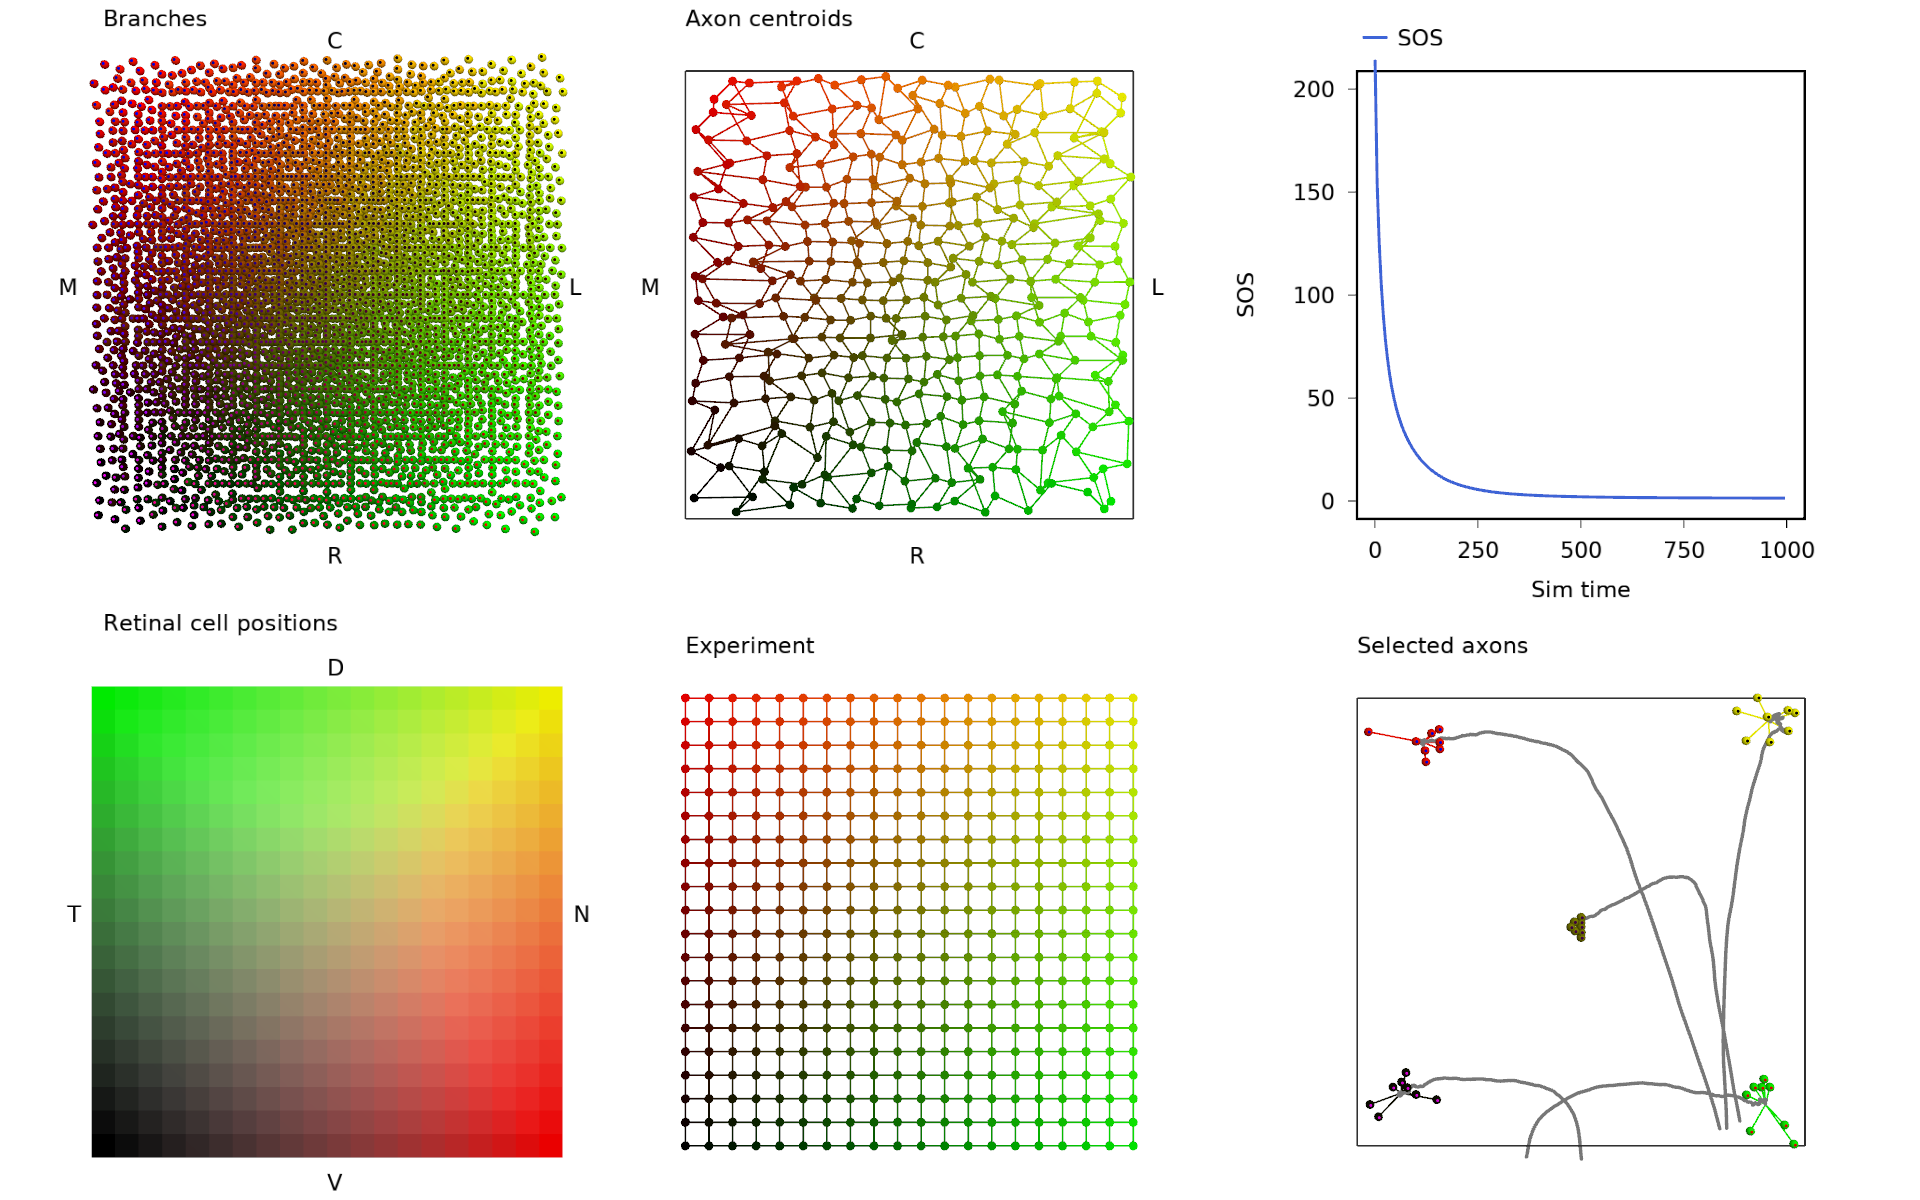
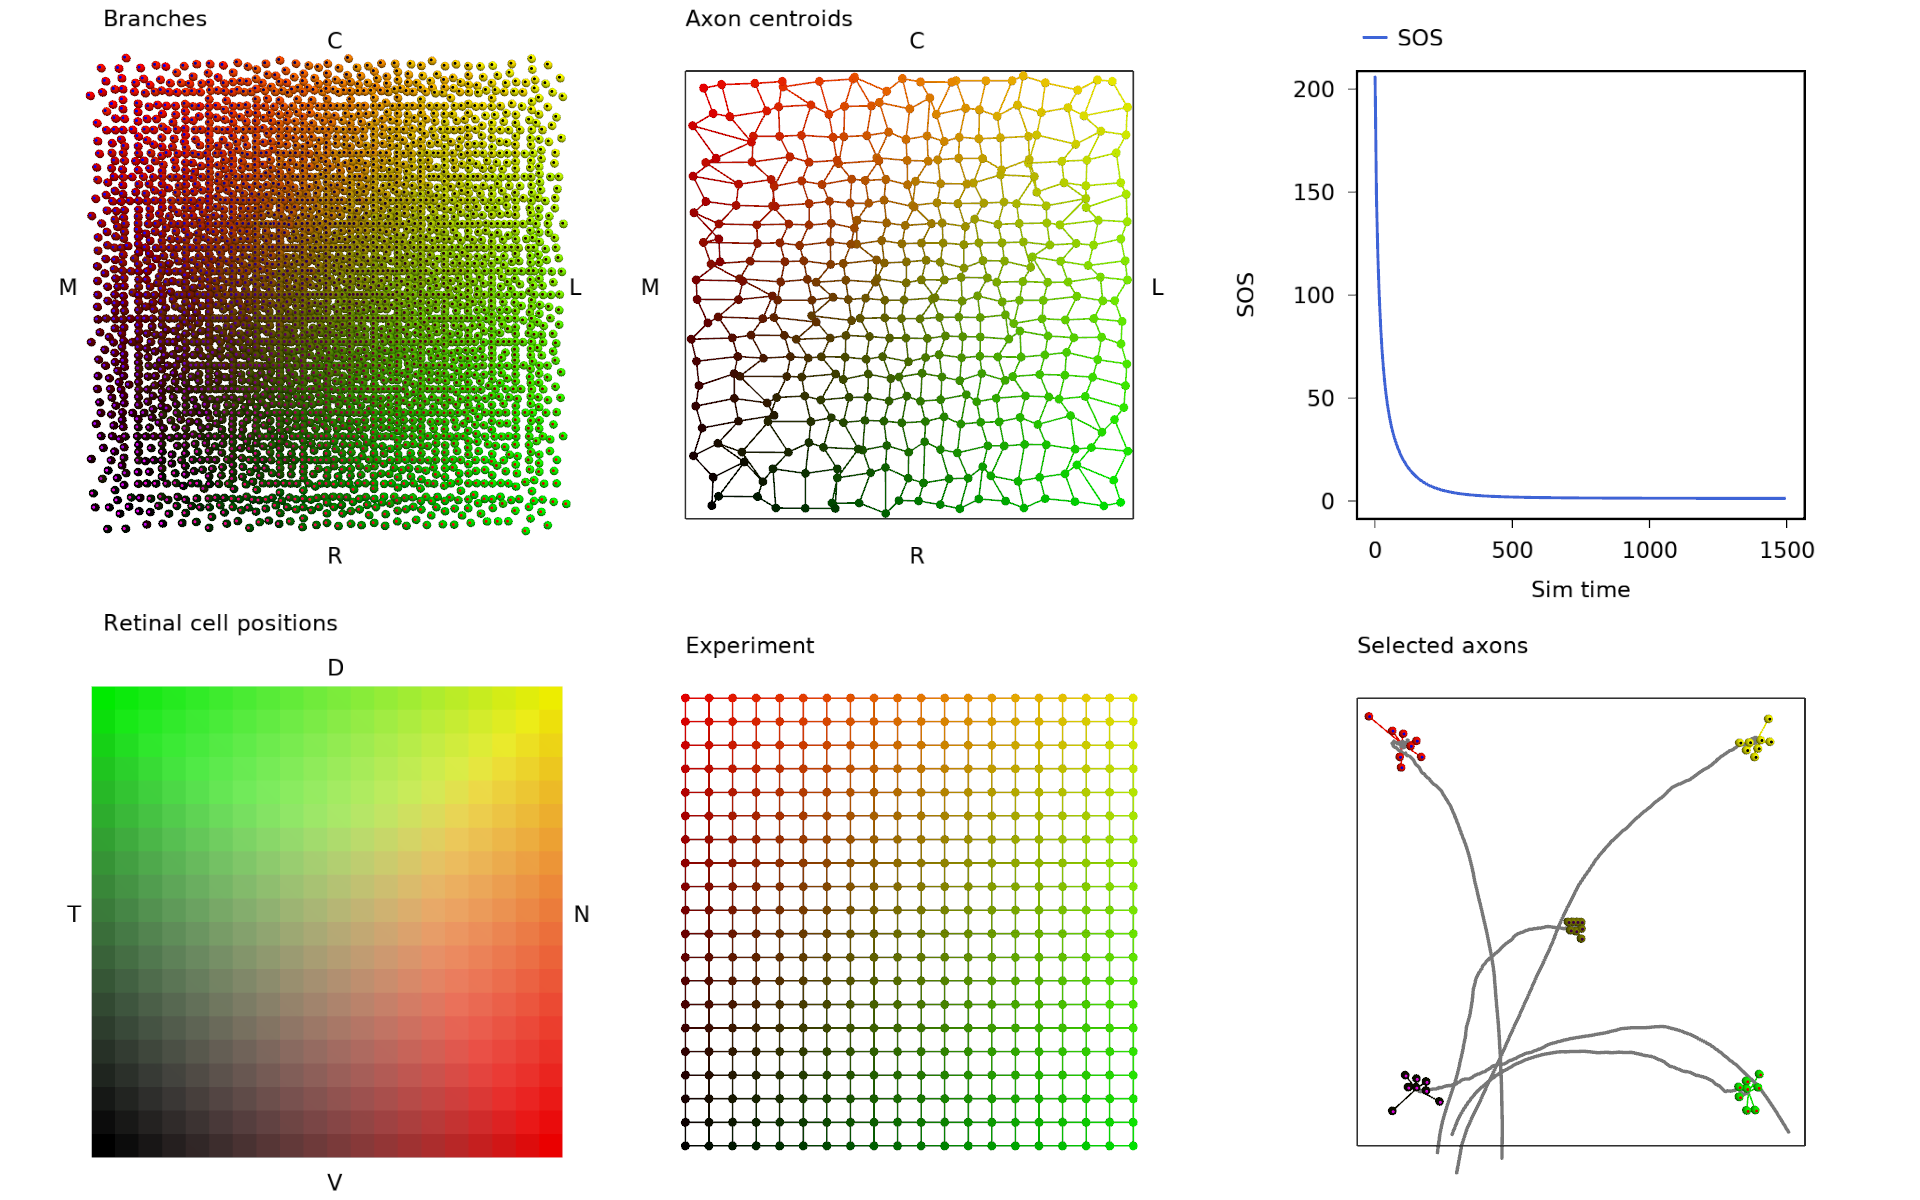
Looking at the genetic manipulation expts brown and reber

diff --git a/sim/agent/tissue.h b/sim/agent/tissue.h
@@ -4,6 +4,7 @@
 #include <morph/Vector.h>
 #include <morph/Random.h>
 #include <algorithm>
+#include <bitset>
 
 //! Some 2D brain tissue, arranged as a Cartesian grid of neurons of width w and height h.
 template<typename T>
@@ -122,11 +123,15 @@ struct guidingtissue : public tissue<T>
     morph::vVector<morph::Vector<T,N>> rcpt;
     //! Each receptor has a 2D gradient field, hence 2*N values here
     morph::vVector<morph::Vector<T,2*N>> rcpt_grad;
+    // Set fields true if the receptor expression has been manipulated
+    morph::vVector<std::bitset<N>> rcpt_manipulated;
 
     //! The tissue also has an expression of ligands to interact with receptors of other
     //! cells/agents
     morph::vVector<morph::Vector<T,N>> lgnd;
     morph::vVector<morph::Vector<T,2*N>> lgnd_grad;
+    // Set fields true if the ligand expression has been manipulated
+    morph::vVector<std::bitset<N>> lgnd_manipulated;
 
     //! Get the relevant axis position (or its inverse) for the position index pi and
     //! the given expression direction, so that an expression value can be computed.
@@ -185,6 +190,14 @@ struct guidingtissue : public tissue<T>
     {
         this->rcpt.resize (this->posn.size());
         this->lgnd.resize (this->posn.size());
+        this->rcpt_manipulated.resize (this->posn.size());
+        this->lgnd_manipulated.resize (this->posn.size());
+
+        // zero out the _manipulations vectors
+        for (size_t ri = 0; ri < this->posn.size(); ++ri) {
+            this->rcpt_manipulated[ri].reset();
+            this->lgnd_manipulated[ri].reset();
+        }
 
         // Ligands and receptors are set up as a function of their cell's position in the tissue.
         for (size_t ri = 0; ri < this->posn.size(); ++ri) {
@@ -653,14 +666,18 @@ struct guidingtissue : public tissue<T>
         if constexpr (random_knockin == true) {
             morph::RandUniform<T> rng(0,1);
             std::vector<T> rns = rng.get(this->rcpt.size());
-            size_t ri = 0;
-            for (auto& r : this->rcpt) {
-                if (rns[ri++] < affected) { r[idx] += amount; }
+            for (size_t ri = 0; ri < this->rcpt.size(); ++ri) {
+                if (rns[ri] < affected) {
+                    this->rcpt[ri][idx] += amount;
+                    this->rcpt_manipulated[ri][idx] = true;
+                }
             }
         } else {
-            size_t ri = 0;
-            for (auto& r : this->rcpt) {
-                if (ri++%2 == 0) { r[idx] += amount; }
+            for (size_t ri = 0; ri < this->rcpt.size(); ++ri) {
+                if (ri%2 == 0) {
+                    this->rcpt[ri][idx] += amount;
+                    this->rcpt_manipulated[ri][idx] = true;
+                }
             }
         }
         this->compute_gradients();

diff --git a/sim/agent/agent1.h b/sim/agent/agent1.h
@@ -536,14 +536,24 @@ struct Agent1
         }
 
         // Knockin will increase expression for half of all cells. There's code in tissue.h to make this randomised or regular
+        bool genetic_manipulation = false;
         T affected = T{0.5};
-        T amount = T{1};
+        T amount = this->conf->getDouble ("amount", 1);
         if (this->conf->getBool ("reber", false)) {
             if (manipulated) { throw std::runtime_error ("Code is only tested for one manipulation at a time!"); }
             // Knockin/knockdown receptor 0:
             this->ret->receptor_knockin (0, affected, amount);
             this->ret->receptor_knockdown (0, amount);
             manipulated = true;
+            genetic_manipulation = true;
+        }
+
+        if (this->conf->getBool ("brown", false)) {
+            if (manipulated) { throw std::runtime_error ("Code is only tested for one manipulation at a time!"); }
+            // Knockin receptor 0 in half of RGCs (but with no knockdown):
+            this->ret->receptor_knockin (0, affected, amount);
+            manipulated = true;
+            genetic_manipulation = true;
         }
 
         std::cout << "Retina has " << this->ret->num() << " cells\n";
@@ -593,6 +603,9 @@ struct Agent1
         bool totally_random = this->mconf->getBool ("totally_random_init", true);
         std::string branch_model = this->mconf->getString ("branch_model", "james_agent");
 
+        std::array<float, 3> red = { 1.0f, 0.0f, 0.0f };
+        std::array<float, 3> blue = { 0.0f, 0.0f, 1.0f };
+
         // A loop to set up each branch object in pending_branches.
         for (unsigned int i = 0; i < this->pending_branches.size(); ++i) {
             // Set the branch's termination zone
@@ -633,6 +646,12 @@ struct Agent1
             }
 
             this->ax_centroids.p[ri] += initpos / static_cast<T>(bpa);
+
+            if (genetic_manipulation == true) { // genetic manipulation of retinal receptor 0
+                // Set colour red or blue depending on if receptor 0 in the retina was manipulated or not.
+
+                this->ax_centroids.clr[ri] = this->ret->rcpt_manipulated[ri][0] == true ? red : blue;
+            }
 
             // "experiment suggests": The target for axon centroids is defined by their
             // origin location on the retina. However, their target on the tectum is the
@@ -738,6 +757,11 @@ struct Agent1
         }
 
         if (this->conf->getBool ("reber", false)) {
+            this->ax_centroids.targ_reber();
+        }
+
+        // Don't have a brown-specific target yet
+        if (this->conf->getBool ("brown", false)) {
             this->ax_centroids.targ_reber();
         }
 

diff --git a/paper/paper.tex b/paper/paper.tex
@@ -571,12 +571,14 @@ derived from a normal distribution of mean 0 and standard deviation 0.1.
 
 \subsection*{Normal development}
 
-To enable a simulation it is necessary to make the assumptions (in addition to
-those implicit in the description of the model above) that i) All
-receptor-ligand signalled interactions are repulsive, as for EphA-ephrinA
+To enable a simulation it is necessary to make assumptions about the nature of
+the receptor-ligand signalled interactions (i.e. whether they are attractive
+or repulsive) and about the pattern of ligand expression on the tectal
+surface. We assume that i) All receptor-ligand signalled interactions are
+repulsive, as for EphA-ephrinA
 coupling \citep{drescher_vitro_1995,nakamoto_topographically_1996}; and ii)
 all tectal ligand expressions vary exponentially along a given axis, following
-Eq.\,\ref{e:tecexp}. The result of running this system are presented in
+Eq.\,\ref{e:tecexp}. The results of running such a system are presented in
 Fig.\,\ref{f:wt}.
 %
 Fig.\,\ref{f:wt}Ai shows a dual-colour map of retinal ganglion cell positions
@@ -611,6 +613,8 @@ This result shows that a gradient following model based on receptor-ligand
 interactions and incorporating axon-axon repulsion is able to generate the
 basic mapping observed in the retinotectal projection.
 
+
+
 \subsection*{Manipulations}
 
 To determine if the model can explain the many surgical and genetic
@@ -620,6 +624,8 @@ simulations matching those in \citet{simpson_simple_2011} in which we either
 rotated or translocated grafts of the tectum; ablated portions of the retina
 and/or the tectum; or manipulated the receptor or ligand expressions in the
 model.
+
+\subsubsection*{Surgical Manipulations}
 
 Fig.\,\ref{f:surg1} shows the result of simulating three surgical
 manipulations alongside the wildtype result, which is shown on Row A. Rows B
@@ -647,6 +653,12 @@ left-behind retina), Row D: Compound eye (Two nasal retinal halves `glued
 together')}
 \label{f:surg2}
 \end{figure}
+
+\subsubsection*{Genetic manipulations}
+
+Brown et al. EphA knock-in.
+
+Describe Reber and other gene knock-in and knock-out experiments.
 
 \subsection*{ligand expression profiles}
 
@@ -736,7 +748,6 @@ tectal cells.
 rotation. Row C: 180 degree rotation. Row D: Graft swap}
 \label{f:chemosurg}
 \end{figure}
-
 
 \subsection*{Grating simulations}
 

diff --git a/sim/agent/net.h b/sim/agent/net.h
@@ -205,17 +205,23 @@ struct rgcnet : public net<T>
         }
     }
 
+    static constexpr bool recolour_for_genetic_expts = false; // was the wrong place to do this
+
     void targ_reber()
     {
         morph::Vector<T,3> fac2y = {1, 2, 1};
         morph::Vector<T,3> offshalfy = {0, 0.5, 0};
 
         // Reber expt: knockdown one EphR, selectively knockin another. Both are equivalent to our rcpt[0].
+        // Brown expt: Just do the selective knockin on its own.
 
         // Bottom half has locations stretched down
         for (size_t j = 0; j < this->h/2; ++j) {
             for (size_t i = 0; i < this->w; ++i) {
                 this->targ[j+this->w*i] *= fac2y;
+                if constexpr (recolour_for_genetic_expts == true) {
+                    this->clr[j+this->w*i] = {1.0f, 0.0f, 0.0f};
+                }
             }
         }
         // Top part is shifted/stretched up
@@ -223,6 +229,9 @@ struct rgcnet : public net<T>
             for (size_t i = 0; i < this->w; ++i) {
                 this->targ[j+this->w*i] -= offshalfy;
                 this->targ[j+this->w*i] *= fac2y;
+                if constexpr (recolour_for_genetic_expts == true) {
+                    this->clr[j+this->w*i] = {0.0f, 0.0f, 1.0f};
+                }
             }
         }
     }
